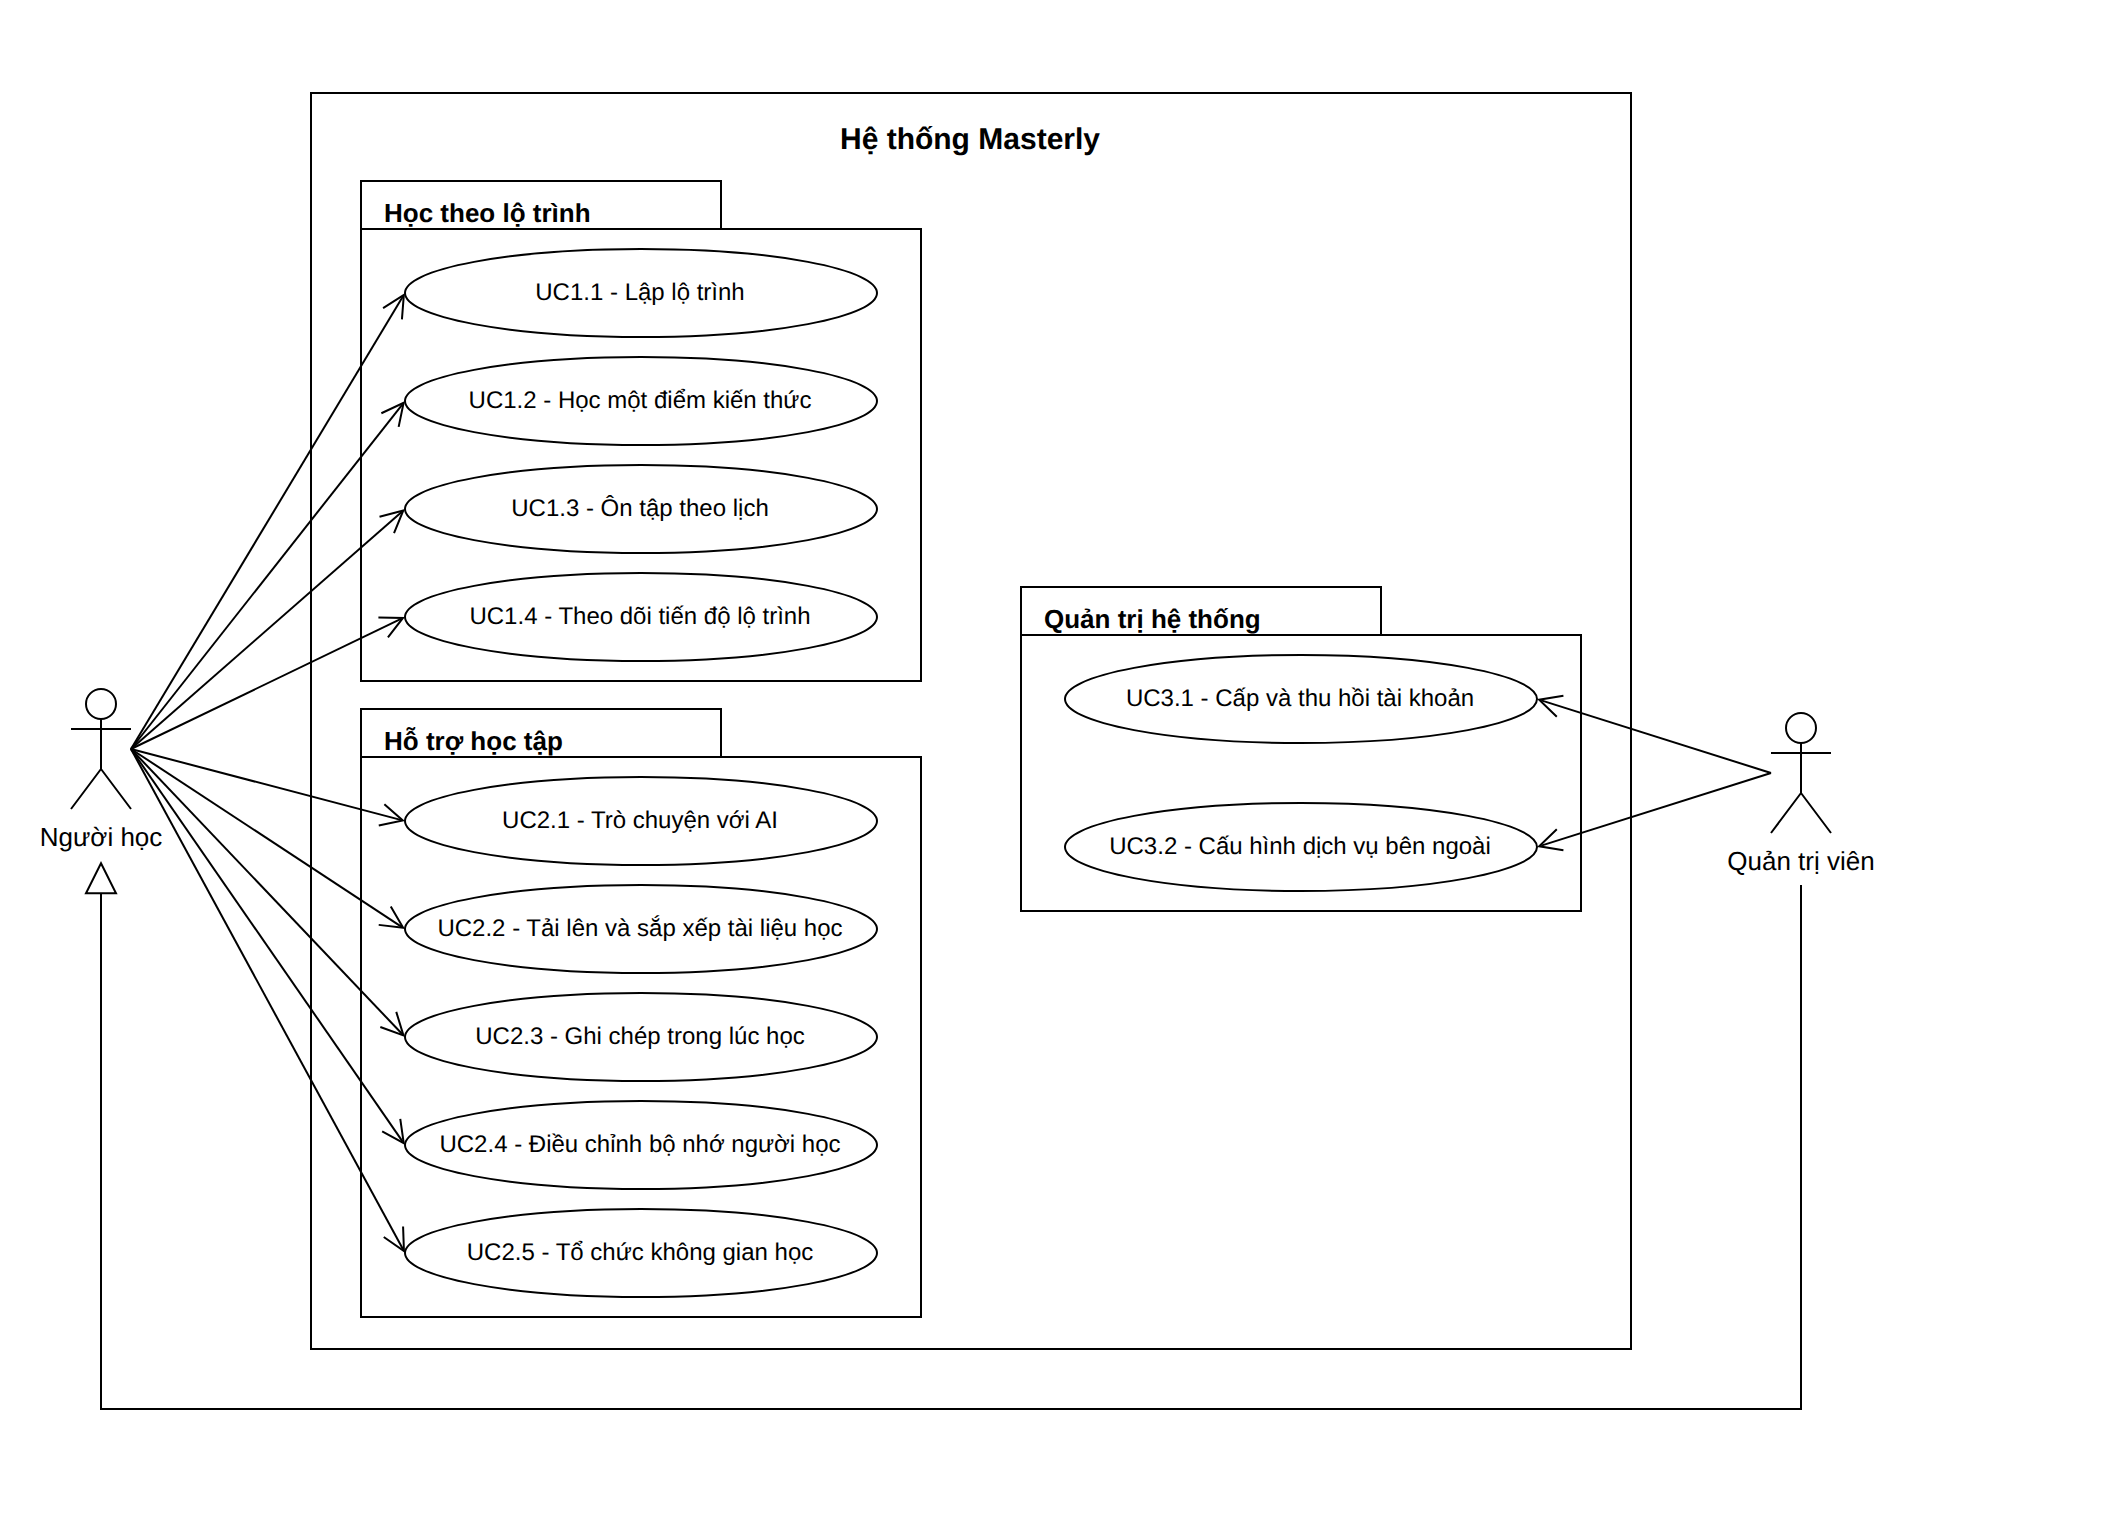
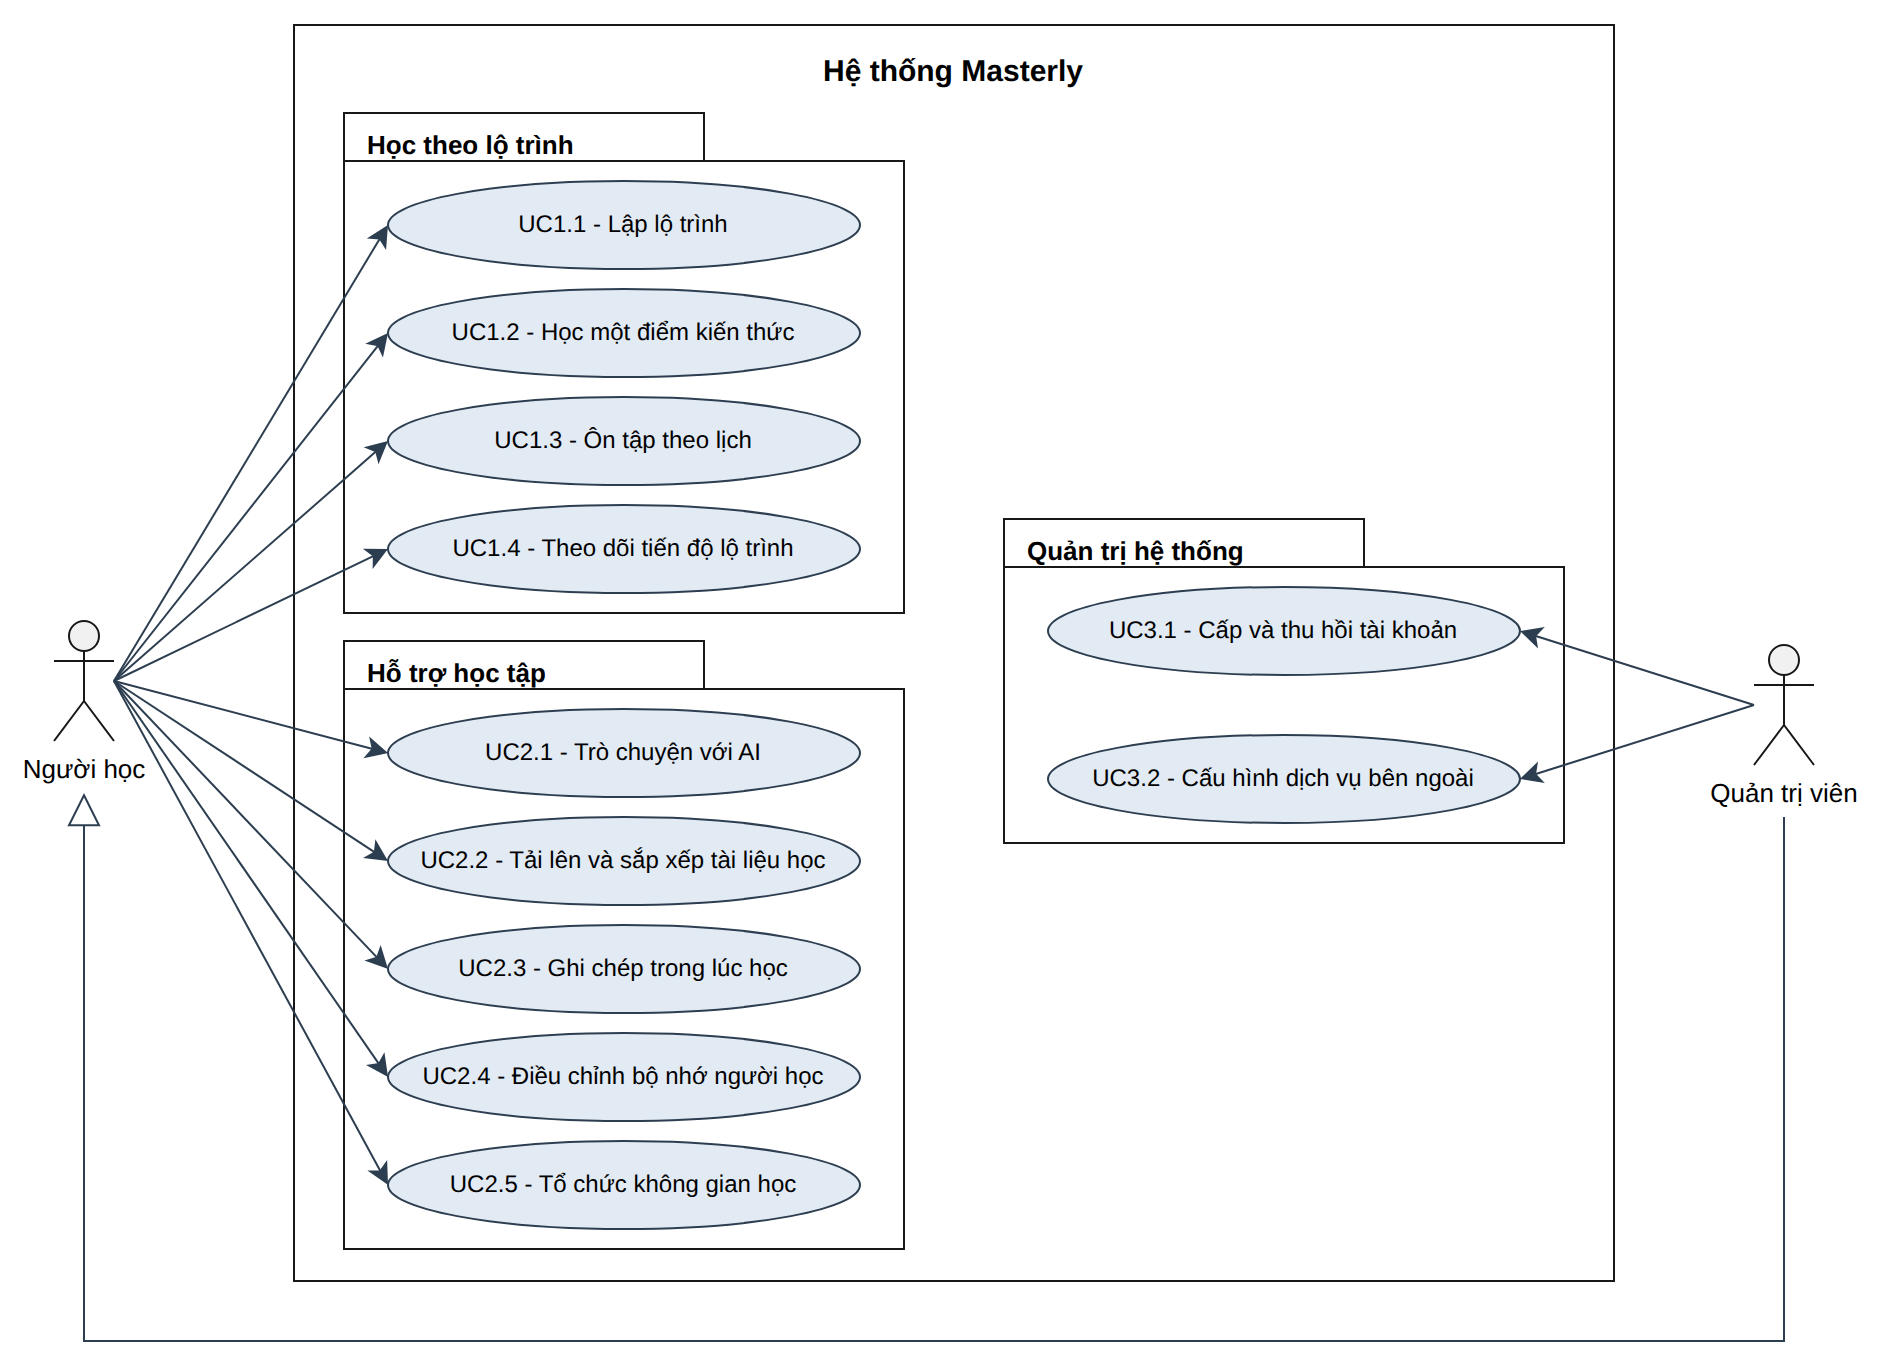
docs: specify the guided learning use cases
Add section 2.2.3 with UC1.1 to UC1.4, each with its own use case
diagram, basic flow table and main alternative flows. Restyle the
overall use case diagram to match.

Changed region(s): [[0.0, 0.0307, 0.8942, 0.9531], [0.925, 0.5534, 0.9867, 0.5842], [0.925, 0.4919, 0.9559, 0.5227]]

diff --git a/report/chuong-2-phan-tich-yeu-cau.md b/report/chuong-2-phan-tich-yeu-cau.md
@@ -130,3 +130,124 @@ Người học dùng các ca sử dụng của hai nhóm đầu. Quản trị vi
 | | UC2.5 | Tổ chức không gian học | Người học |
 | 3. Quản trị hệ thống | UC3.1 | Cấp và thu hồi tài khoản | Quản trị viên |
 | | UC3.2 | Cấu hình dịch vụ bên ngoài | Quản trị viên |
+
+### 2.2.3. Đặc tả các ca sử dụng
+
+#### UC1.1 - Lập lộ trình
+
+Tác nhân chính: Người học.
+
+Mô tả tóm lược: Hình 2.3 mô tả ca sử dụng người học nêu mục tiêu học, trao đổi với gia sư AI và chốt dàn ý thành một lộ trình gồm các điểm kiến thức.
+
+![Hình 2.3. Biểu đồ ca sử dụng UC1.1 - Lập lộ trình](images/uc1-1-lap-lo-trinh.png)
+
+**Hình 2.3. Biểu đồ ca sử dụng UC1.1 - Lập lộ trình**
+
+Luồng cơ bản: luồng bắt đầu khi người học chọn tạo lộ trình mới và kết thúc khi lộ trình được lưu.
+
+**Bảng 2.4. Luồng cơ bản của UC1.1**
+
+| Hành động của tác nhân | Phản ứng của hệ thống | Dữ liệu liên quan |
+|---|---|---|
+| 1. Chọn tạo lộ trình mới và nêu mục tiêu học. | 2. Gia sư AI hỏi về kiến thức đã có, mức muốn đạt và thời gian có. | Mục tiêu học |
+| 3. Trả lời các câu hỏi của gia sư. | 4. Gia sư AI đề xuất dàn ý gồm các điểm kiến thức theo thứ tự học. | Kiến thức đã có, mức muốn đạt, thời gian có; dàn ý |
+| 5. Đồng ý và chốt dàn ý. | 6. Lưu lộ trình và hiển thị lộ trình vừa tạo. | Lộ trình gồm các điểm kiến thức |
+
+Luồng thay thế:
+
+- Luồng thay thế 1 (Chọn nguồn cho lộ trình): tại bước 1, người học chọn thêm tài liệu, ghi chép hoặc cuộc trò chuyện cũ làm nguồn. Gia sư dựa vào các nguồn này khi hỏi và đề xuất dàn ý.
+- Luồng thay thế 2 (Chỉnh sửa dàn ý): tại bước 5, người học yêu cầu thêm, bớt hoặc đổi thứ tự các điểm kiến thức. Hệ thống quay lại bước 4 với dàn ý đã chỉnh.
+
+Tiền điều kiện: Người học đã đăng nhập.
+
+Hậu điều kiện: Lộ trình được lưu trong không gian học hiện tại, sẵn sàng để học điểm kiến thức đầu tiên.
+
+#### UC1.2 - Học một điểm kiến thức
+
+Tác nhân chính: Người học.
+
+Mô tả tóm lược: Hình 2.4 mô tả ca sử dụng người học học một điểm kiến thức trong lộ trình: gia sư AI giảng giải và đặt câu hỏi, hệ thống đánh giá câu trả lời và xét người học đã nắm vững hay chưa. Việc xét nắm vững dựa trên kết quả làm bài qua nhiều câu hỏi; một lần trả lời đúng chưa đủ để coi là nắm vững.
+
+![Hình 2.4. Biểu đồ ca sử dụng UC1.2 - Học một điểm kiến thức](images/uc1-2-hoc-mot-diem-kien-thuc.png)
+
+**Hình 2.4. Biểu đồ ca sử dụng UC1.2 - Học một điểm kiến thức**
+
+Luồng cơ bản: luồng bắt đầu khi người học chốt xong dàn ý và bắt đầu học, hoặc tiếp tục một lộ trình đang học dở; kết thúc khi điểm kiến thức được đánh dấu đã nắm vững.
+
+**Bảng 2.5. Luồng cơ bản của UC1.2**
+
+| Hành động của tác nhân | Phản ứng của hệ thống | Dữ liệu liên quan |
+|---|---|---|
+| 1. Bắt đầu học sau khi chốt dàn ý, hoặc tiếp tục học ở lộ trình đang dở. | 2. Chọn điểm kiến thức cần học và cho biết lý do chọn. | Điểm kiến thức cần học |
+| | 3. Gia sư AI giảng giải điểm kiến thức rồi đặt câu hỏi. | Câu hỏi |
+| 4. Trả lời câu hỏi. | 5. Đánh giá câu trả lời, cho biết kết quả kèm giải thích và cập nhật mức nắm vững. | Câu trả lời, kết quả đánh giá, mức nắm vững |
+| | 6. Nếu người học chưa nắm vững, quay lại bước 3: gia sư giảng thêm phần còn sai và đặt câu hỏi khác. | |
+| | 7. Đánh dấu điểm kiến thức đã nắm vững và xếp lịch ôn. | Trạng thái nắm vững, lịch ôn |
+
+Luồng thay thế:
+
+- Luồng thay thế 1 (Bỏ qua hoặc hoãn điểm kiến thức): tại bước 2 hoặc 4, người học chọn bỏ qua hoặc hoãn điểm kiến thức đang học. Hệ thống chuyển sang điểm khác; điểm bị hoãn không được tính là nắm vững và được chọn lại khi các điểm khác đã học xong.
+
+Tiền điều kiện: Người học đã đăng nhập và đã có lộ trình.
+
+Hậu điều kiện: Kết quả làm bài và mức nắm vững của điểm kiến thức được lưu; điểm đã nắm vững được xếp lịch ôn.
+
+#### UC1.3 - Ôn tập theo lịch
+
+Tác nhân chính: Người học.
+
+Mô tả tóm lược: Hình 2.5 mô tả ca sử dụng người học ôn lại các điểm kiến thức đã nắm vững khi đến hạn ôn. Điểm trả lời đúng được giãn lịch ôn, điểm trả lời sai được ôn lại sớm hơn.
+
+![Hình 2.5. Biểu đồ ca sử dụng UC1.3 - Ôn tập theo lịch](images/uc1-3-on-tap-theo-lich.png)
+
+**Hình 2.5. Biểu đồ ca sử dụng UC1.3 - Ôn tập theo lịch**
+
+Luồng cơ bản: luồng bắt đầu khi người học chọn ôn tập lúc lộ trình có điểm đến hạn ôn và kết thúc khi đã ôn hết các điểm đến hạn.
+
+**Bảng 2.6. Luồng cơ bản của UC1.3**
+
+| Hành động của tác nhân | Phản ứng của hệ thống | Dữ liệu liên quan |
+|---|---|---|
+| 1. Chọn ôn tập khi lộ trình báo có điểm đến hạn ôn. | 2. Chọn điểm đến hạn cần ôn trước. | Các điểm đến hạn ôn |
+| | 3. Gia sư AI đặt câu hỏi ôn về điểm kiến thức đó. | Câu hỏi |
+| 4. Trả lời câu hỏi. | 5. Đánh giá câu trả lời, cho biết kết quả và cập nhật mức nắm vững cùng lịch ôn tiếp theo. | Câu trả lời, kết quả đánh giá, mức nắm vững, lịch ôn |
+| | 6. Lặp lại bước 3–5 với các điểm đến hạn còn lại. | |
+| | 7. Báo đã ôn xong và cho biết lần ôn tiếp theo. | |
+
+Luồng thay thế:
+
+- Luồng thay thế 1 (Ôn trước hạn): tại bước 1, người học xem kế hoạch ôn gồm các điểm đã nắm vững và thời điểm ôn tiếp theo, rồi chọn ôn một điểm chưa đến hạn. Hệ thống ôn điểm đó theo các bước 3–5.
+- Luồng thay thế 2 (Ôn trong lúc học): khi người học đang học theo lộ trình (UC1.2) mà có điểm đến hạn ôn, hệ thống ưu tiên ôn điểm đó trước khi chuyển sang điểm kiến thức mới.
+
+Tiền điều kiện: Người học đã đăng nhập và lộ trình có điểm kiến thức đã nắm vững.
+
+Hậu điều kiện: Kết quả ôn được lưu; mức nắm vững và lịch ôn tiếp theo của các điểm đã ôn được cập nhật.
+
+#### UC1.4 - Theo dõi tiến độ lộ trình
+
+Tác nhân chính: Người học.
+
+Mô tả tóm lược: Hình 2.6 mô tả ca sử dụng người học xem tiến độ của các lộ trình: điểm kiến thức nào đã nắm vững, nên học hoặc ôn gì tiếp theo và vì sao.
+
+![Hình 2.6. Biểu đồ ca sử dụng UC1.4 - Theo dõi tiến độ lộ trình](images/uc1-4-theo-doi-tien-do-lo-trinh.png)
+
+**Hình 2.6. Biểu đồ ca sử dụng UC1.4 - Theo dõi tiến độ lộ trình**
+
+Luồng cơ bản: luồng bắt đầu khi người học mở danh sách lộ trình và kết thúc khi hệ thống hiển thị tiến độ của lộ trình được chọn.
+
+**Bảng 2.7. Luồng cơ bản của UC1.4**
+
+| Hành động của tác nhân | Phản ứng của hệ thống | Dữ liệu liên quan |
+|---|---|---|
+| 1. Mở danh sách lộ trình. | 2. Hiển thị các lộ trình, mỗi lộ trình kèm số điểm kiến thức đã nắm vững trên tổng số. | Danh sách lộ trình |
+| 3. Chọn một lộ trình. | 4. Hiển thị các điểm kiến thức theo thứ tự học, mỗi điểm kèm trạng thái chưa học, đang học hoặc đã nắm vững. | Điểm kiến thức, trạng thái nắm vững |
+| | 5. Cho biết việc nên làm tiếp theo kèm lý do: học điểm kiến thức nào hoặc ôn điểm nào. | Lịch ôn |
+
+Luồng thay thế:
+
+- Luồng thay thế 1 (Xem chi tiết điểm kiến thức): tại bước 4, người học chọn một điểm kiến thức. Hệ thống hiển thị kết quả các lần làm bài, mức nắm vững và lịch ôn của điểm đó.
+- Luồng thay thế 2 (Chỉnh mức ghi nhớ mong muốn): tại bước 5, người học chọn mức ghi nhớ mong muốn cho lộ trình. Hệ thống lưu lại và xếp lại lịch ôn; mức càng cao thì lịch ôn càng dày.
+
+Tiền điều kiện: Người học đã đăng nhập và đã có ít nhất một lộ trình.
+
+Hậu điều kiện: Người học nắm được tiến độ của lộ trình; nếu đã chỉnh mức ghi nhớ mong muốn, lịch ôn được xếp lại theo mức mới.
